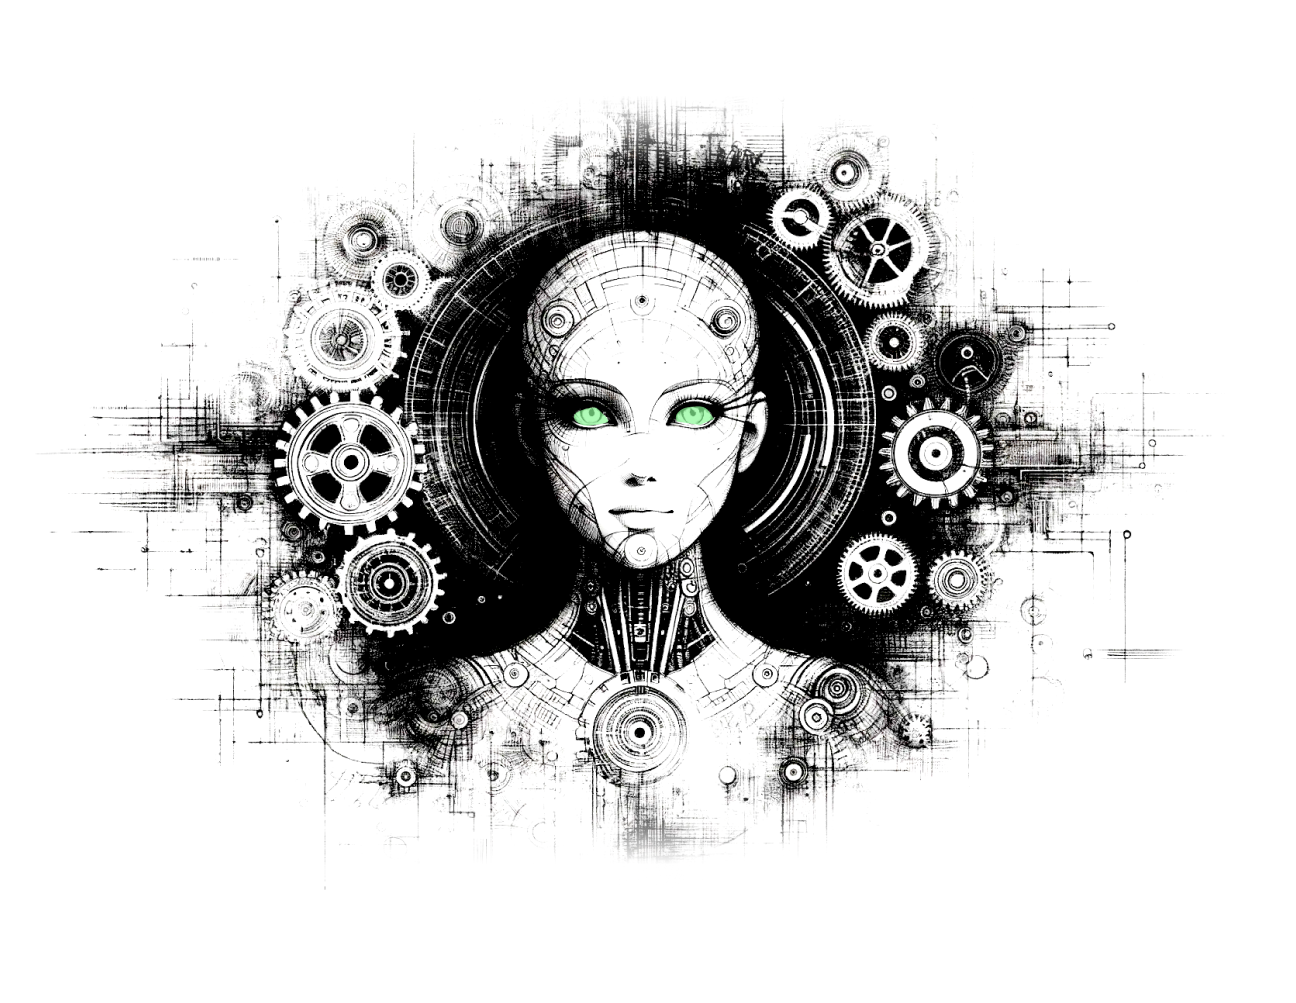
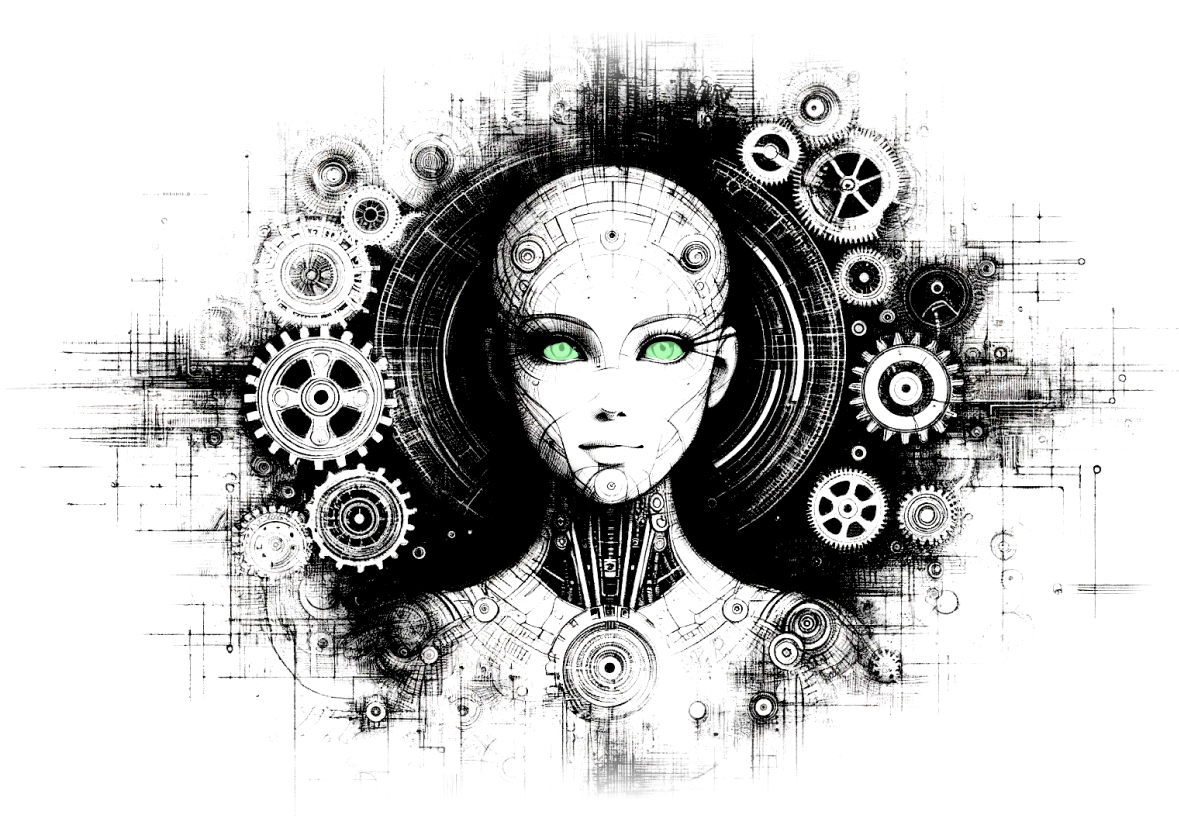
initial

diff --git a/themes/hugoplate/layouts/index.html b/themes/hugoplate/layouts/index.html
@@ -4,11 +4,11 @@
 <section class="section">
   <div class="container">
     <div class="row justify-center">
-      <div class="lg:col-8 mb-0 mr-[30px] -mt-[148px] text-center">
-        {{ partial "image" (dict "Src" .image "Alt" "Banner image" "Loading" "eager" "Class" "mx-auto"
+      <div class="lg:col-8 mb-0 -mt-[148px] text-center">
+        {{ partial "image" (dict "Src" .image "Alt" "Banner image" "Loading" "eager" "Class" "mx-auto pt-8"
         ) }}
       </div>
-      <div class="lg:col-8 -mt-[40px] mb-8 text-center">
+      <div class="lg:col-8 -mt-[10px] mb-8 text-center">
         <h1 class="mb-4">
           {{ .title | markdownify }}
         </h1>

diff --git a/themes/hugoplate/assets/scss/buttons.scss b/themes/hugoplate/assets/scss/buttons.scss
@@ -7,9 +7,9 @@
 }
 
 .btn-primary {
-  @apply border-primary bg-primary rounded-lg dark:border-darkmode-primary dark:text-dark text-dark dark:bg-white;
+  @apply border-0 bg-blue-100 rounded-lg dark:border-darkmode-primary dark:text-dark text-blue-700 dark:bg-white;
 }
 
 .btn-outline-primary {
-  @apply border-dark text-dark hover:bg-dark dark:hover:text-dark bg-transparent hover:text-white dark:border-white dark:text-white dark:hover:bg-white;
+  @apply border-blue-600 rounded-xl text-blue-600 hover:bg-dark dark:hover:text-dark bg-transparent hover:text-blue-900 dark:border-white dark:text-white dark:hover:bg-white;
 }
